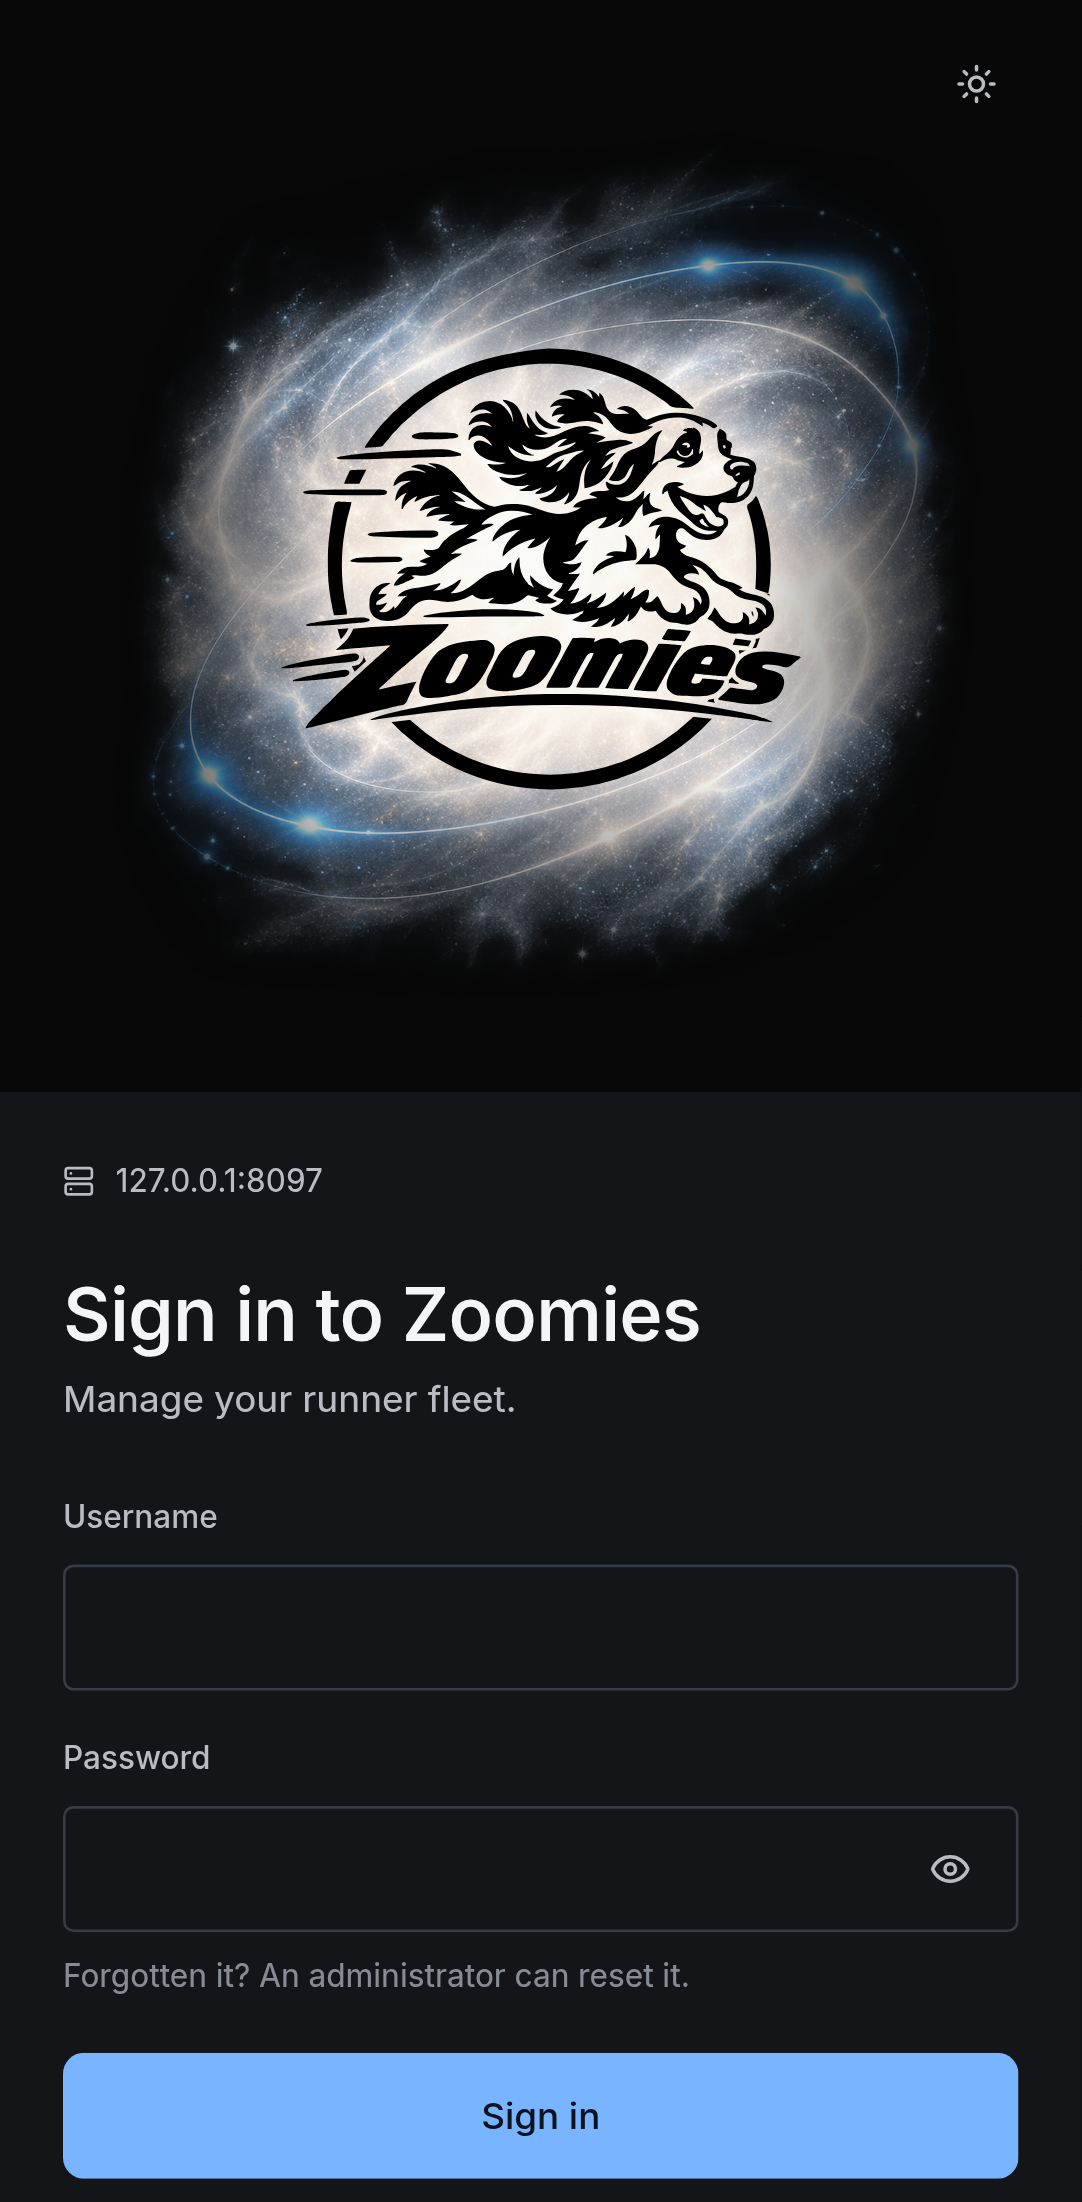
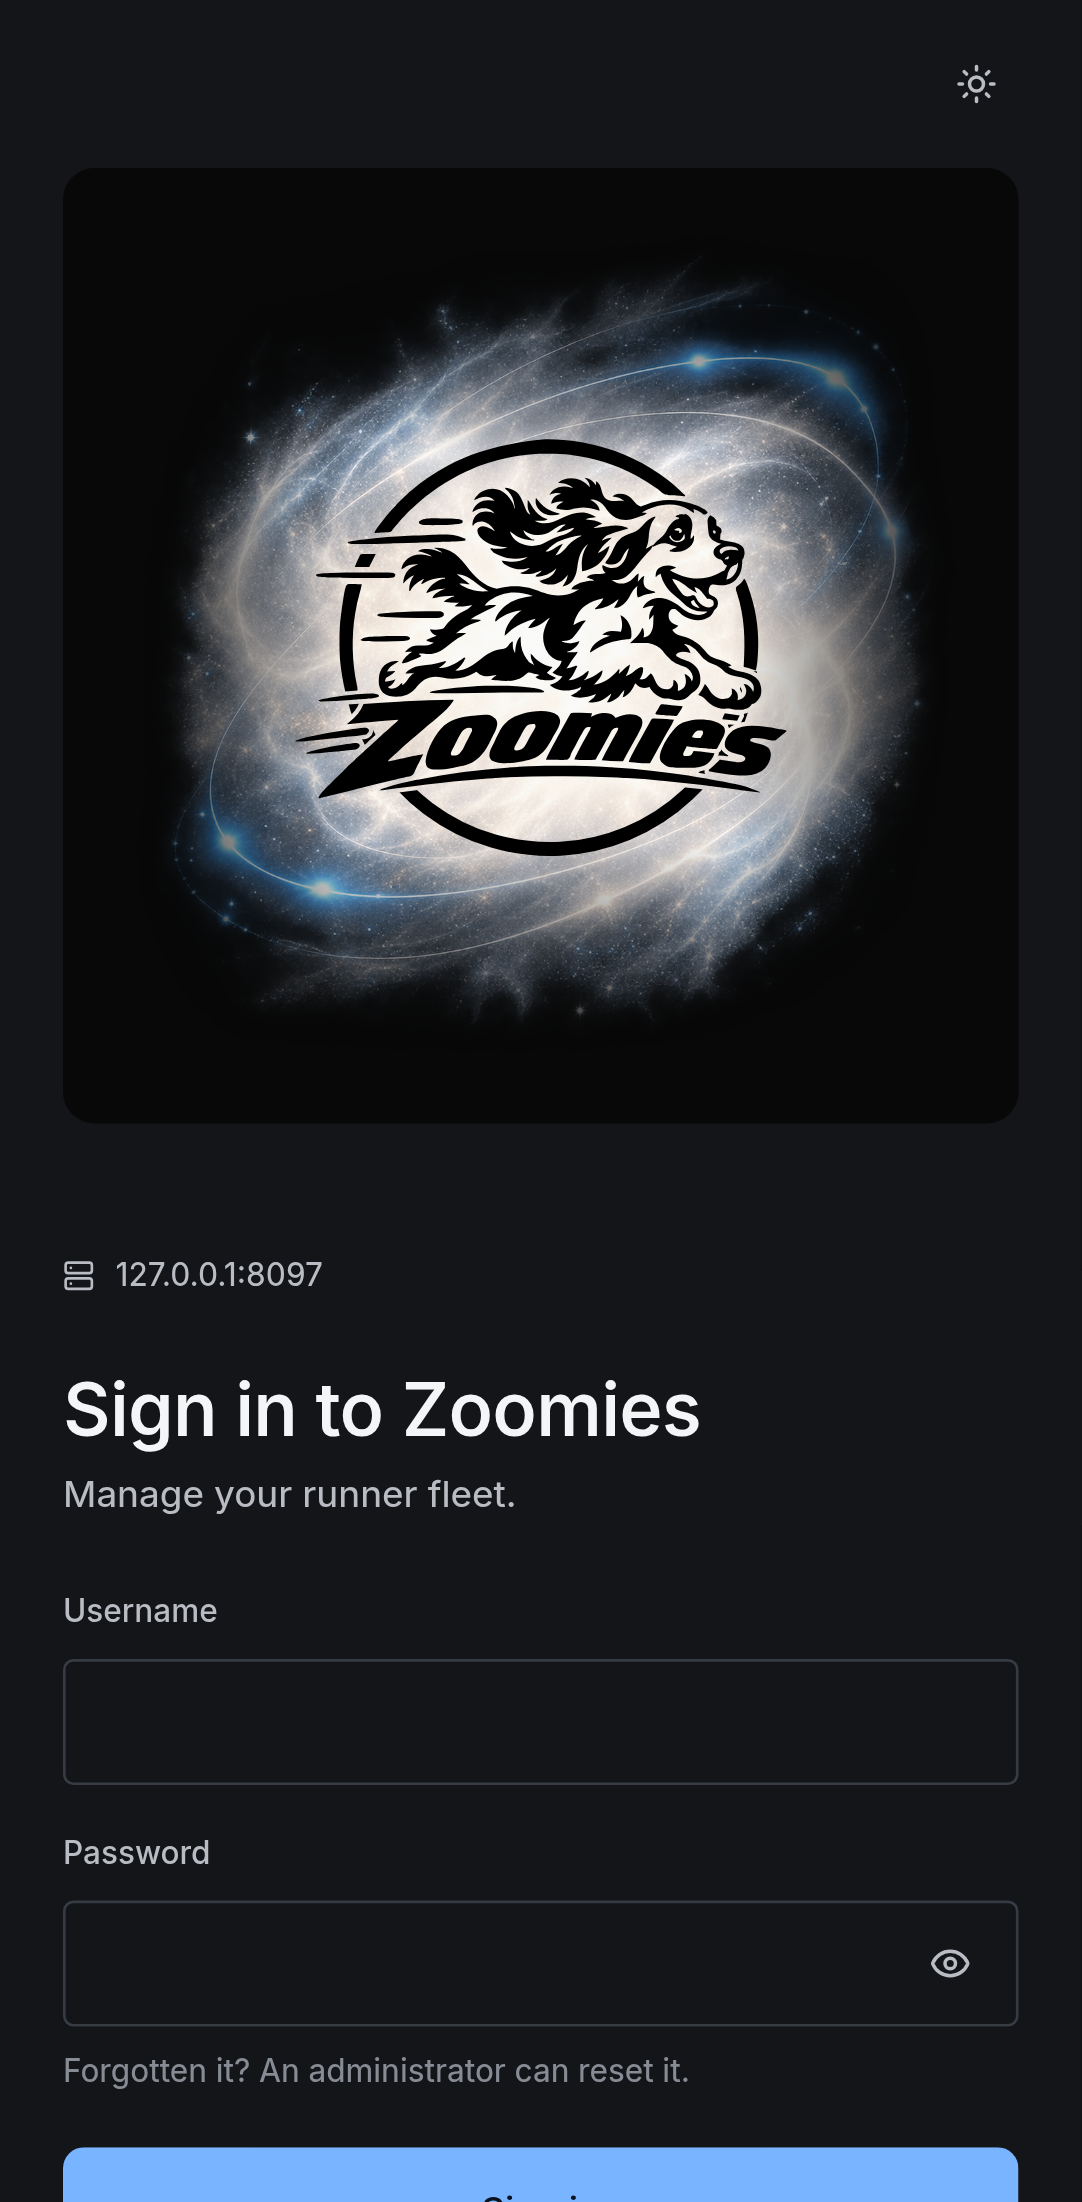
Recapture the current rounded login stage on desktop and phone

diff --git a/roadmap/validation/ui-tour-refresh.md b/roadmap/validation/ui-tour-refresh.md
@@ -31,8 +31,9 @@ Validation:
 - `go test -count=1 ./internal/docs/` passed.
 - `mkdocs build --strict` passed.
 - Screenshot script passed Prettier, ESLint and the Node syntax check.
-- All 96 WebP images decoded successfully; the 84 refreshed gallery images
-  were compared with their original PNG captures and preserve every pixel.
+- All 96 WebP images decoded successfully. The initial 84-image gallery
+  refresh was compared with its original PNG captures and preserved every
+  pixel; subsequent login captures use the same lossless encoding.
 - The UI tour and Eli guide passed 16 browser checks: light and dark at
   320, 390, 768 and 1440 pixels, with no horizontal overflow, correct theme
   images, successful image decoding and working tour shortcuts.
